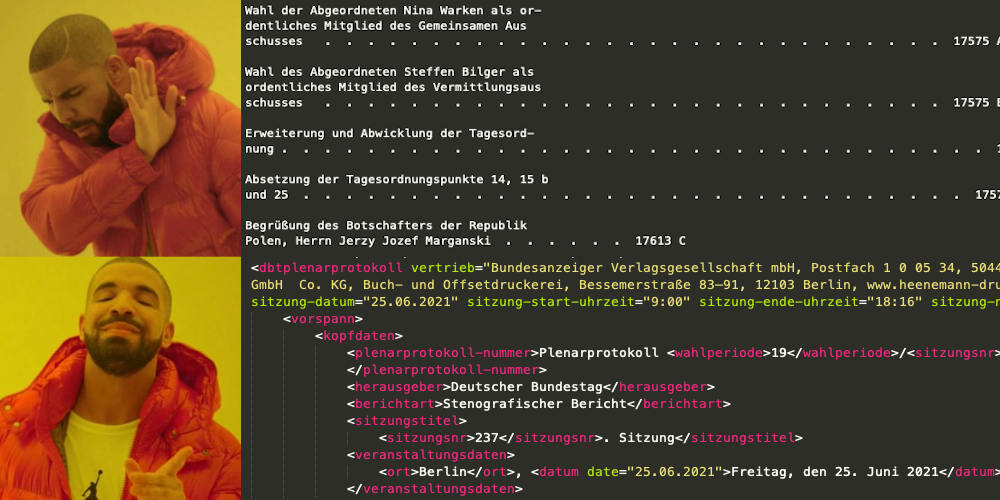
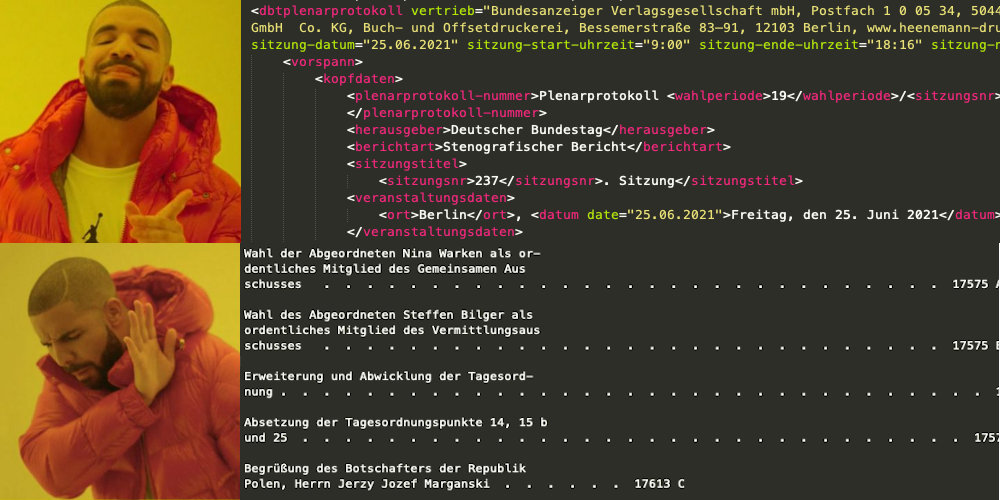
Flip drake meme

diff --git a/slides.tex b/slides.tex
@@ -59,7 +59,12 @@
   \end{itemize}
 \end{frame}
 
-\begin{frame}
+\begin{frame}[allowframebreaks]
+    \hspace*{-10.75mm}
+    \includegraphics[width=\paperwidth]{drakememe-only-19}
+
+    \break
+
     \hspace*{-10.75mm}
     \includegraphics[width=\paperwidth]{drakememe}
 \end{frame}
